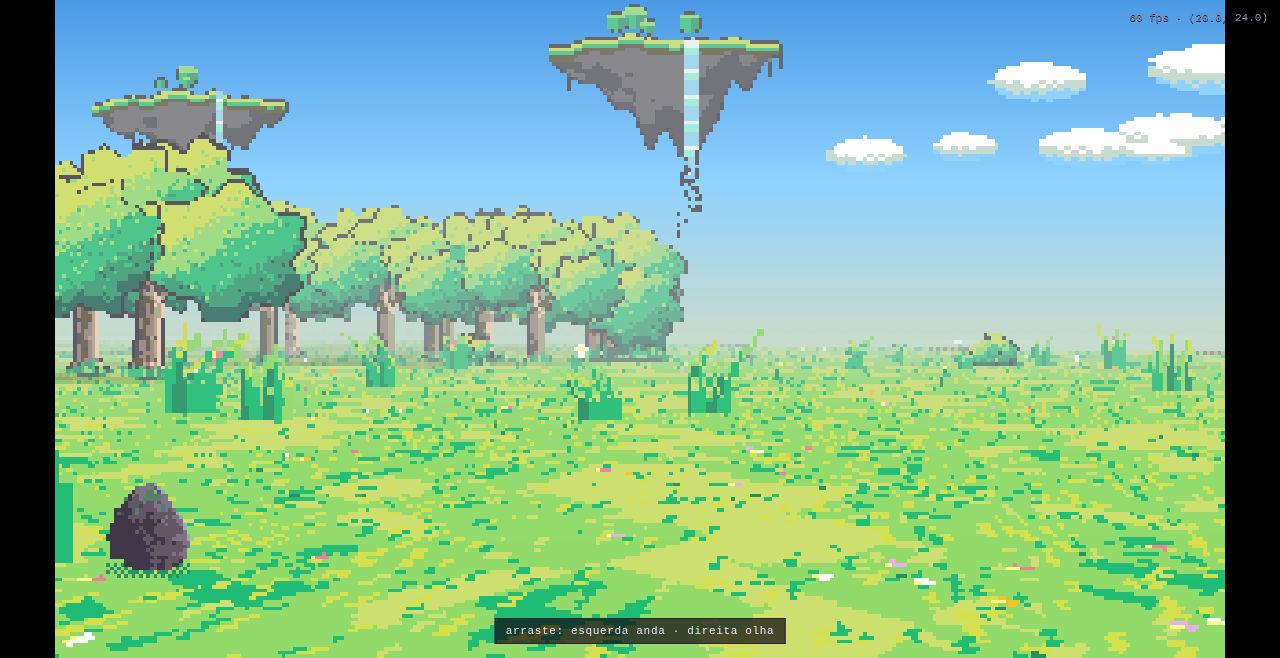
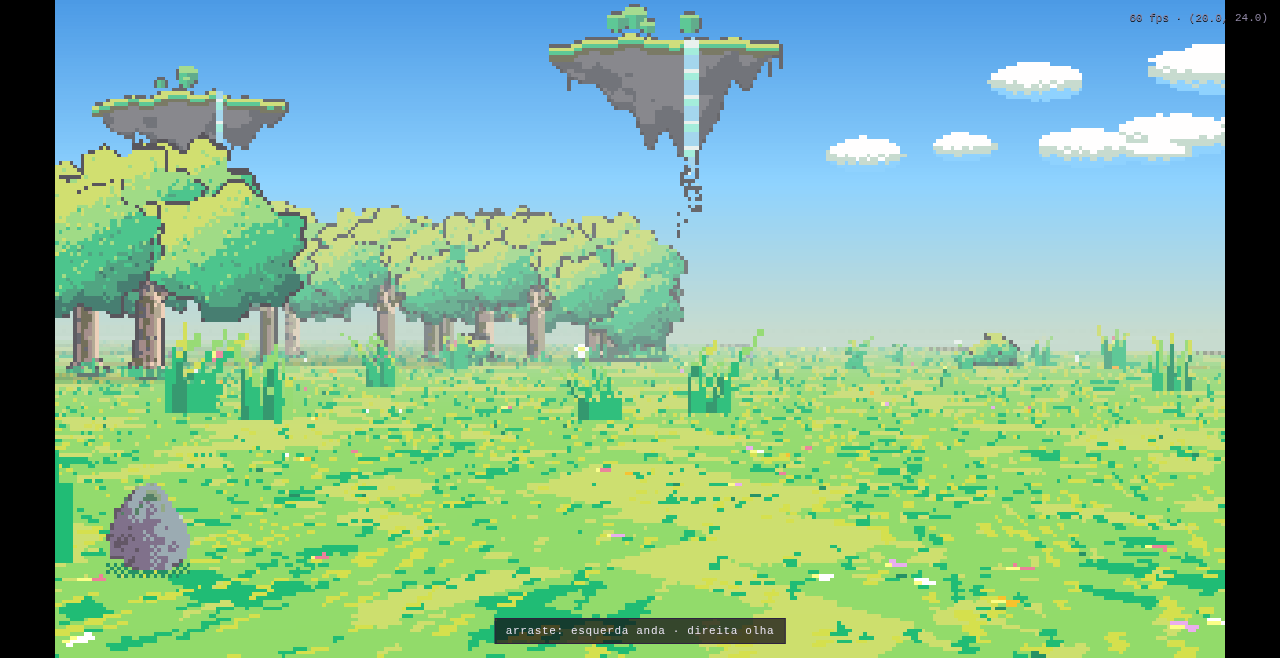
protótipo: pedra em cinza claro (pedido do ideador)
Dois ajustes no renderer volumétrico da rocha: (1) rampa clareada —
corpo em greyPurple/paleBlueGrey/paleMint, ameixa média só como acento
(a base era plumDark e a pedra lia escura); (2) piso do tom mais alto
(0.5+0.46*lam -> 0.64+0.36*lam) — o hemisfério à sombra, que é o que a
câmera vê na maior parte dos ângulos, agora fica cinza médio em vez de
afundar no fim da rampa. Contorno sombreado idem (2, não 1).

Claude-Session: https://claude.ai/code/session_01NKRfN6ugdA3ryh1w7eKacM

Changed region(s): [[0.0625, 0.7295, 0.1562, 0.8815], [0.8438, 0.2128, 0.875, 0.2432], [0.8125, 0.1216, 0.8438, 0.152]]

diff --git a/prototipos/fps/nos-fps.html b/prototipos/fps/nos-fps.html
@@ -1760,7 +1760,9 @@ function render(now) {
       const az = Math.atan2(b.y - cam.y, b.x - cam.x);
       const seed = (b.seed || 1) * 0.013;
       const SUN_AZ = -2.2, SUN_EL = 0.5, cosEl = Math.cos(SUN_EL), sinEl = Math.sin(SUN_EL);
-      const ROCK = [1, 2, 6, 7, 8], MOSS = [35, 36, 37, 38];
+      /* rampa clareada (pedido do ideador): cinza claro no corpo, ameixa só
+         no acento mais fundo — antes a base era plumDark e a pedra lia escura */
+      const ROCK = [2, 6, 7, 7, 8], MOSS = [35, 36, 37, 38];
       // sombra de contato no chão (elipse escura sob a pedra)
       const shW = radX * 1.05, shH = Math.max(1.5, radY * 0.22);
       for (let x = Math.max(0, (cxr - shW) | 0); x <= Math.min(W - 1, (cxr + shW) | 0); x++) {
@@ -1793,14 +1795,15 @@ function render(now) {
           const wnx = horiz * Math.cos(bearing), wny = horiz * Math.sin(bearing), wnz = -nyN;
           const lam = wnx * Math.cos(SUN_AZ) * cosEl + wny * Math.sin(SUN_AZ) * cosEl + wnz * sinEl;
           const facet = Math.floor((fbm(Math.cos(bearing) * 6 + seed, nyN * 6 + seed, 2)) * 3) / 3;
-          let tt = 0.5 + 0.46 * lam + (facet - 0.5) * 0.5;
+          /* piso alto: o lado à sombra fica cinza médio, não escuro (ideador) */
+          let tt = 0.64 + 0.36 * lam + (facet - 0.5) * 0.42;
           tt += (BAYER[y & 3][x & 3] / 16 - 0.5) * 0.12;
           const edge = r2 > (rr - 0.09) * (rr - 0.09);
           let idx;
           if (wnz > 0.42 && fbm(Math.cos(bearing) * 4 + seed * 2, nyN * 4, 2) > 0.46) {
             idx = MOSS[clamp(Math.round(tt * 3), 0, 3)]; // musgo no topo
           } else if (edge && lam < 0.05) {
-            idx = 1; // contorno escuro no lado à sombra
+            idx = 2; // contorno à sombra (ameixa média, não breu)
           } else {
             idx = ROCK[clamp(Math.round(tt * 4), 0, 4)];
           }